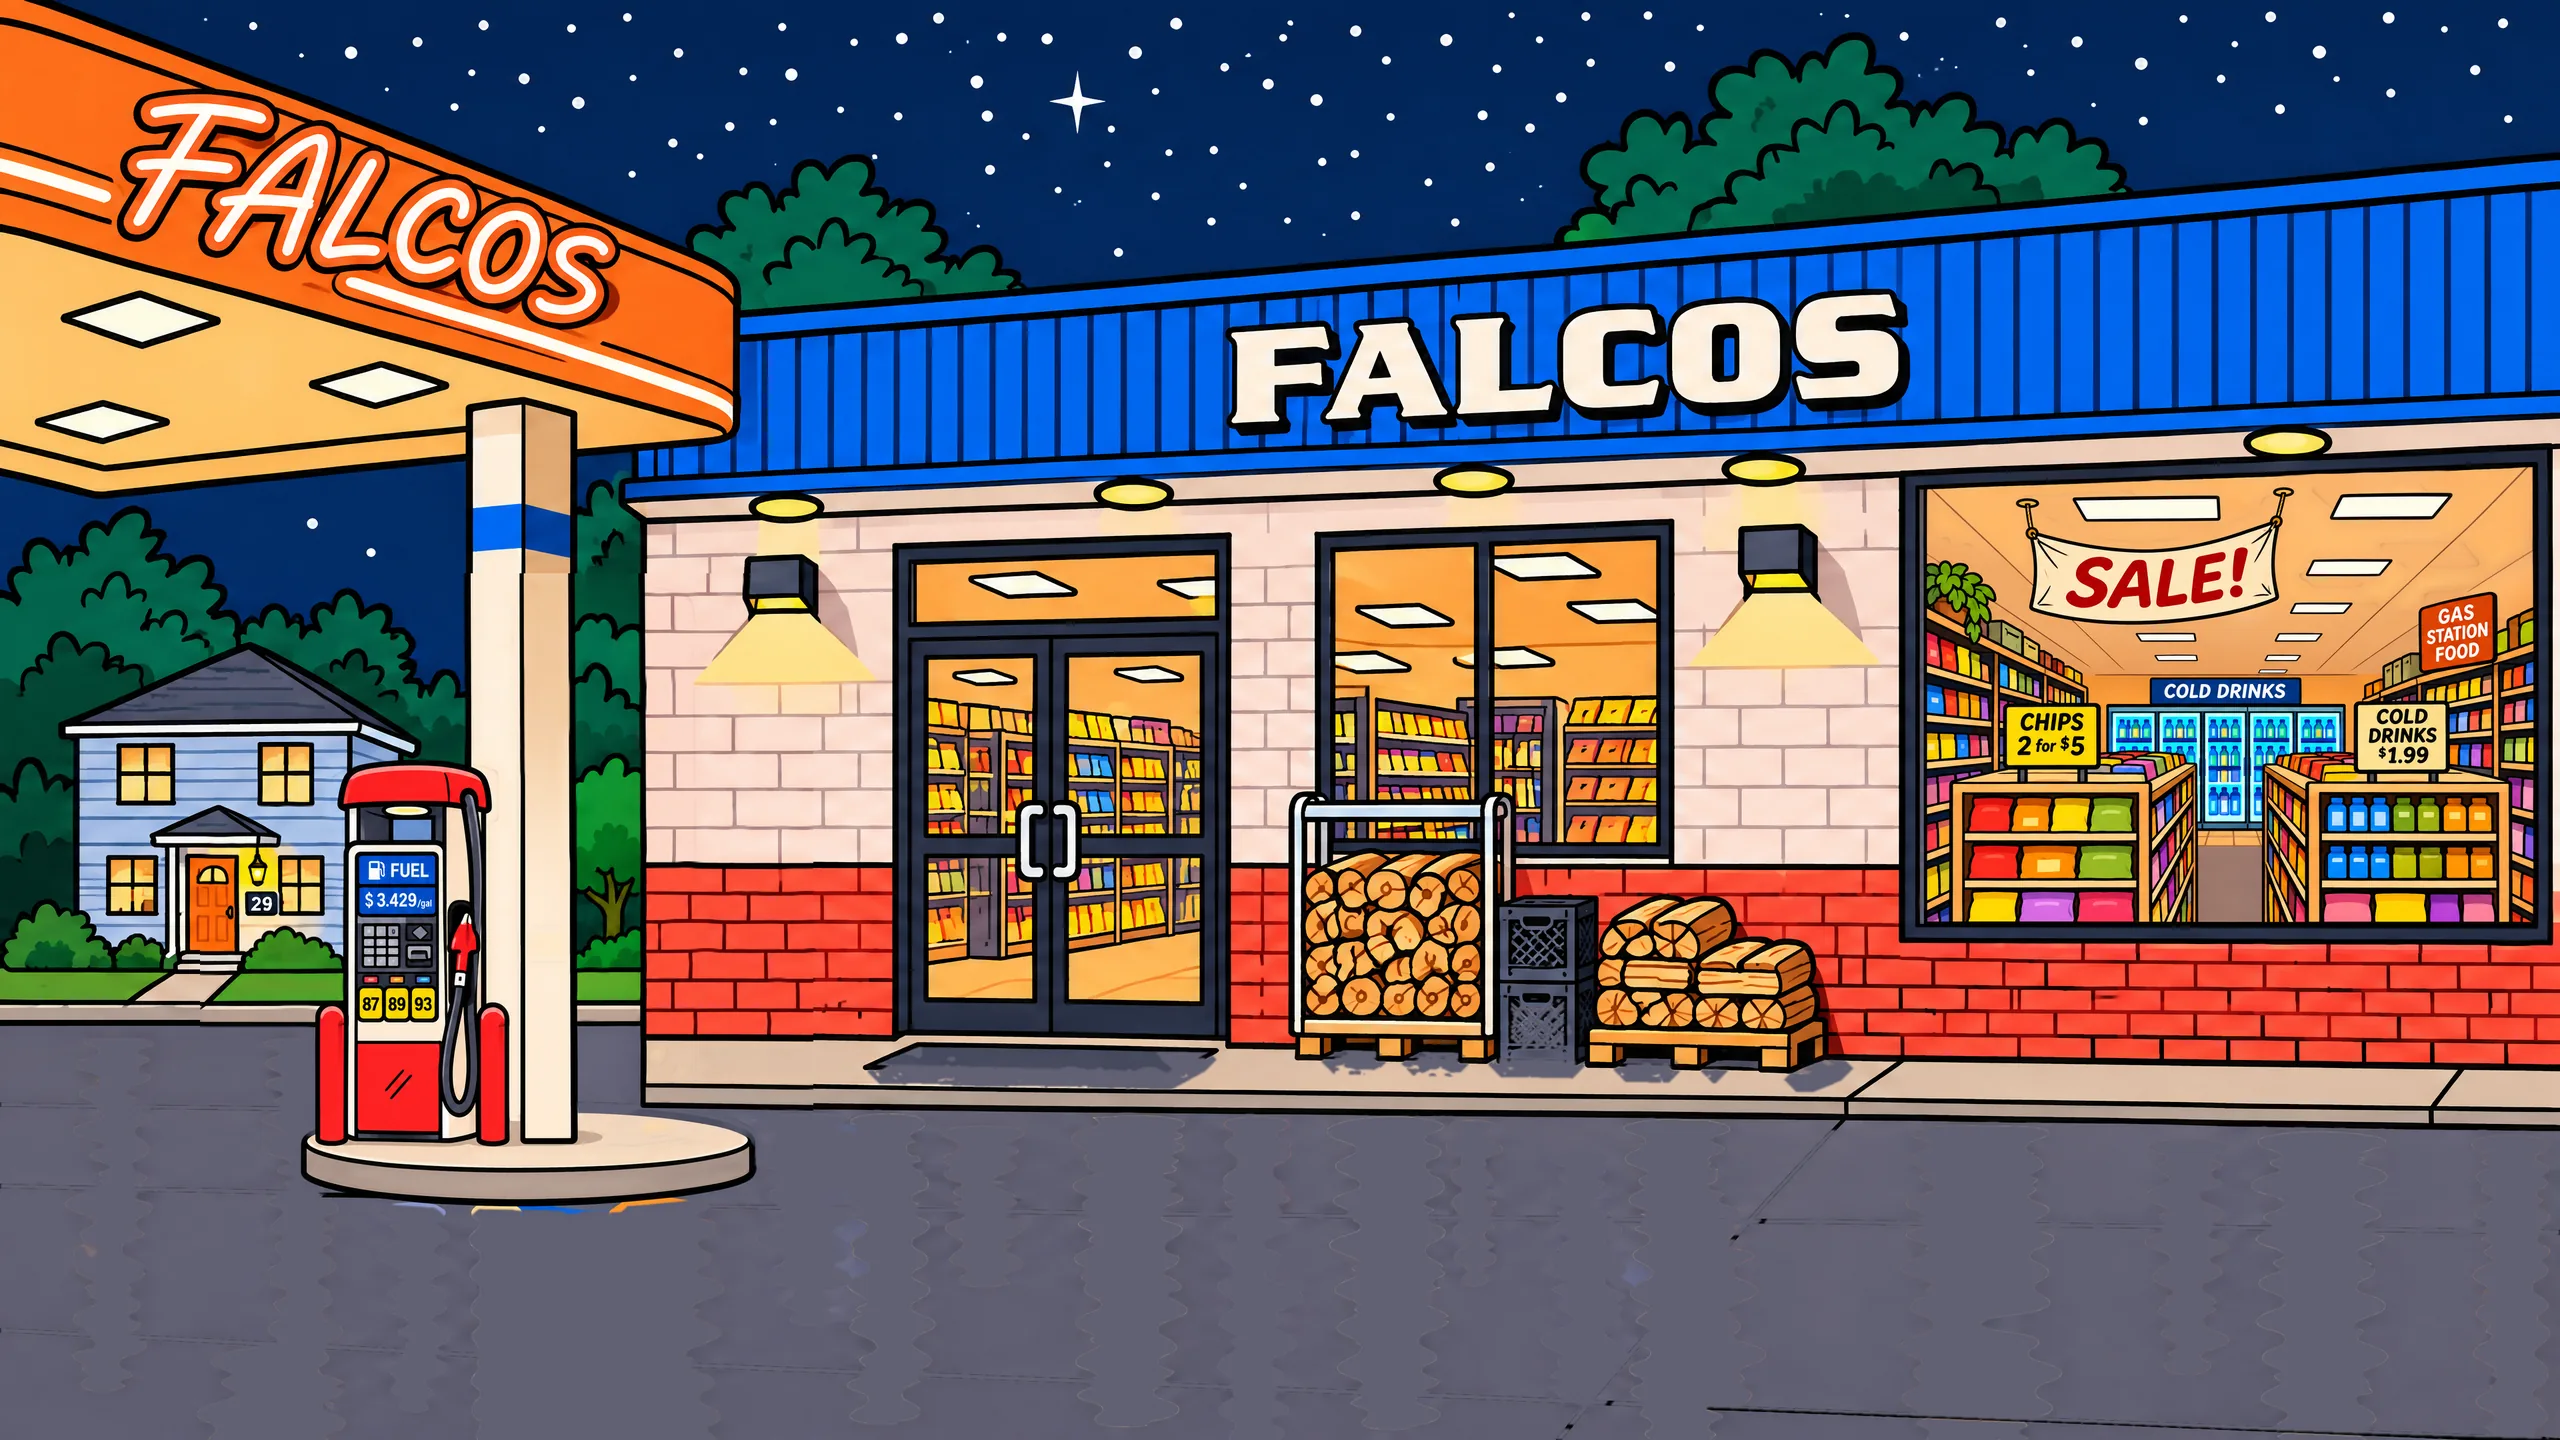
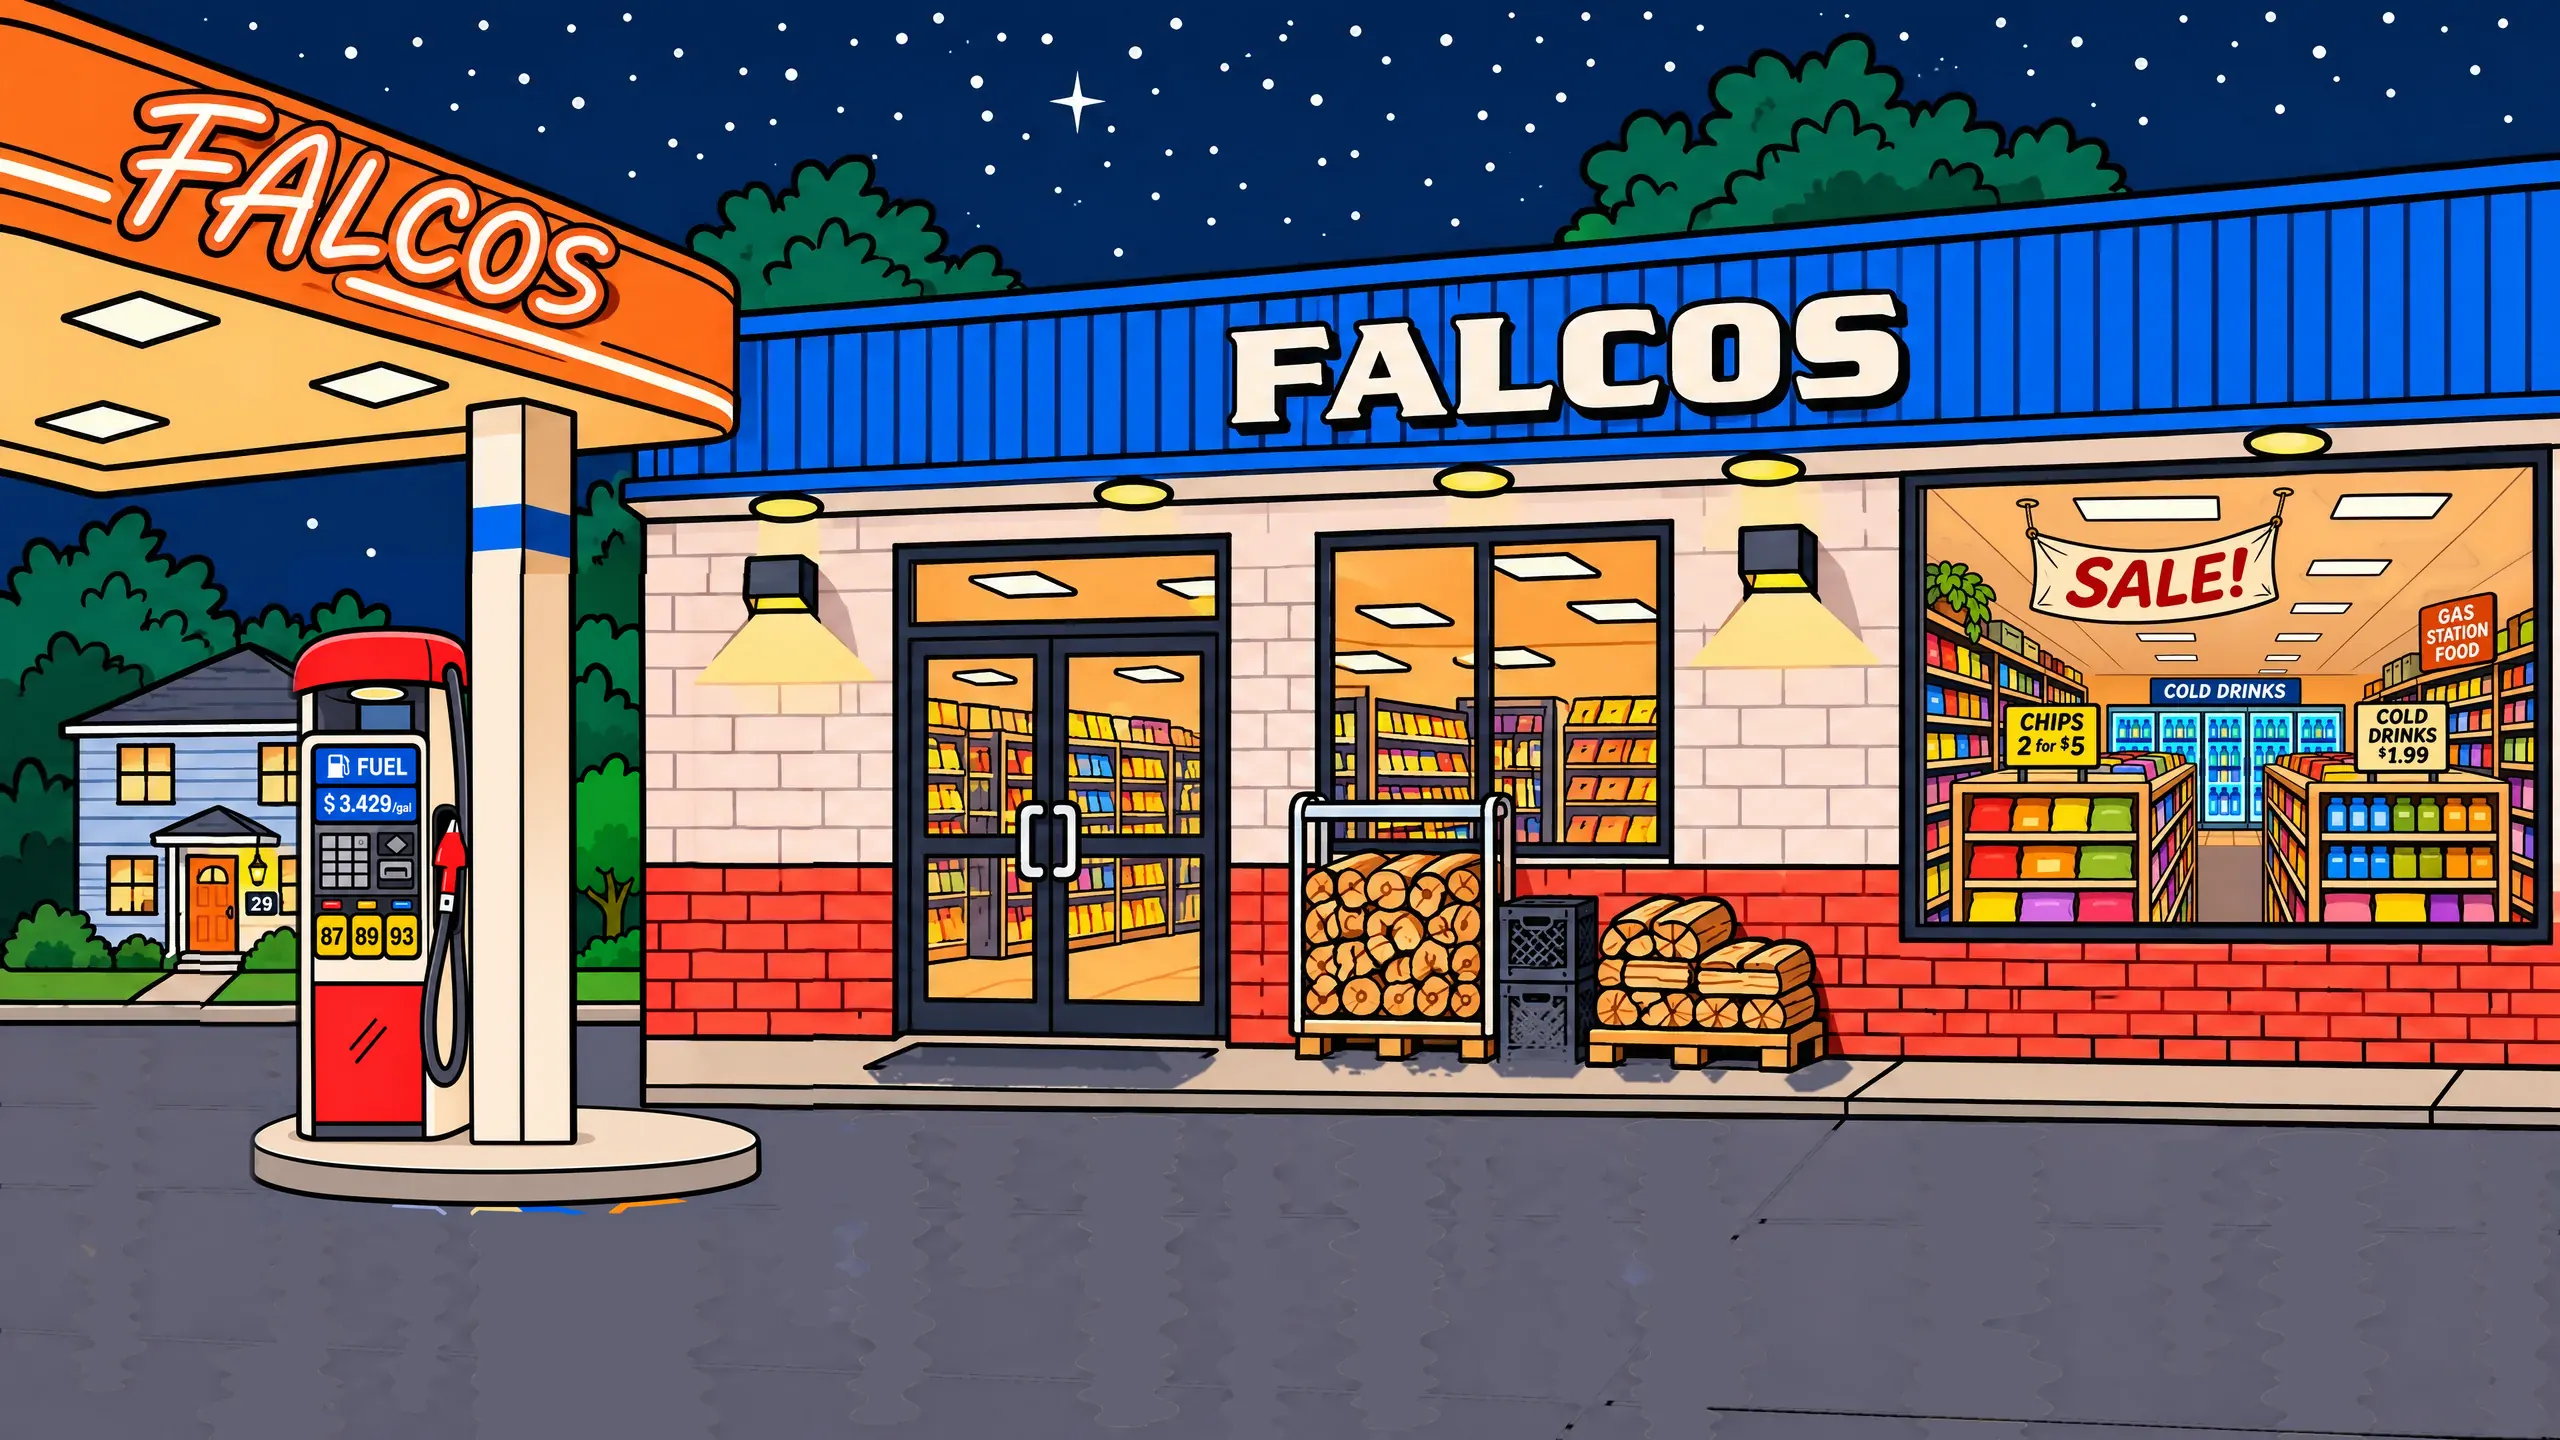
Falcos: one bigger pump, same spot and size in every scene, no poles; board canvas re-checks resting cells
- Every scene's gas pump stands where the normal scene's does, at the same size, ~45% bigger than before and
  without its red poles, each in its own theme (worn for PREMIUM, purple light for MIDNIGHT RUN, the race
  display for NITRO): tools/falcos/pump_align.py blends the edits into the plates and their phone twins.
- boardgl.js: every 250 ms each resting cell is read again in full and the board redrawn if anything it shows
  changed, so a missed animation event can no longer leave icons invisible.

Changed region(s): [[0.0938, 0.4375, 0.3125, 0.8438]]

diff --git a/frontend/boardgl.js b/frontend/boardgl.js
@@ -24,6 +24,13 @@
 
   let app = null, board = null, root = null, tried = null;
   let dirty = true, geoDirty = true, res = 1, W = 0, H = 0;
+  // A safety net (owner, 2026-11-17: "the symbols can be invisable sometimes ... it just happened to me like 5 times"):
+  // a cell is only re-read while it animates or when its class changes, so a missed animation event could leave it
+  // drawn from a stale opacity or place - a column of icons gone. Every SWEEP_MS each resting cell is read again in
+  // full, and the board redrawn only if something it shows actually changed.
+  const SWEEP_MS = 250;
+  let lastSweep = 0;
+  const seen = c => `${c.op}|${c.ico}|${c.z}|${c.smop}|${c.m ? [c.m.a, c.m.b, c.m.c, c.m.d, c.m.e, c.m.f].join() : ""}`;
   const C = [];          // C[r][y]: per cell { cell, box, cont, spr, sm, cls, m, op, z, act, reread, at }
   const R = [];          // per reel { el, x, y, w, h, clip, cont, mask }
   const smearTex = new Map();
@@ -279,6 +286,8 @@
     if (geoDirty) layout();
     if (!C.length) return;
     const now = performance.now();
+    const sweep = now - lastSweep > SWEEP_MS;
+    if (sweep) lastSweep = now;
     // the reels' clips while tiles are on the move
     for (const rr of R) {
       if (!rr) continue;
@@ -297,8 +306,9 @@
         if (!c) continue;
         const cell = c.cell;
         if (cell.className !== c.cls) { c.cls = cell.className; c.reread = true; }
-        if (c.act > 0 && now - c.at > 4000 && !cell.getAnimations({ subtree: true }).length) c.act = c.aCell = c.aIco = c.aSm = 0;
+        if (c.act > 0 && now - c.at > 4000 && !cell.getAnimations({ subtree: true }).length) { c.act = c.aCell = c.aIco = c.aSm = 0; c.reread = true; }
         if (c.act > 0 || c.reread) { read(c, c.reread); c.reread = false; dirty = true; }
+        else if (sweep) { const was = seen(c); read(c, true); if (seen(c) !== was) dirty = true; }
         // the symbol: the frame its rig is showing (symDraw), on the clip's box inside the rig
         const ico = cell.ico, rig = ico && ico.firstElementChild;
         const g = rig && rig._gclip ? SYMF.sheets.get(rig._name + "_" + rig._gclip) : null;

diff --git a/tools/falcos/pump_align.py b/tools/falcos/pump_align.py
@@ -1,0 +1,75 @@
+"""Every scene's gas pump in the same spot and at the same size (owner, 2026-11-17: "you see how all 3 gas stations are
+in diffrent spots and diffrent sizes. i like how they are all diffrently themed but make them all in the exact same spot
+and the exact same size", then "remove the red poles next to the pump" and "make the pump bigger").
+
+The normal scene's pump area was edited first (art/falcos/raw/pumpalign_lit_big.png: the poles gone, the pump ~45%
+bigger, standing where it stood), and each themed scene's pump area was restyled from THAT picture (layout kept, the
+theme's look taken from the scene's own crop): pumpalign_<zombie|midnight|nitro>_big.png. This blends each edit into
+its scene - everything the edit changed in the crop, feathered, fading out towards the crop's edges - and writes the
+game's plates (2560 wide) and their phone twins (_m, 1600 wide) at compress_assets.py's settings.
+
+    .venv/bin/python tools/falcos/pump_align.py
+
+It works on the game's own plates (frontend/assets), which carry later touches the 3840 sources in art/falcos/scene do
+not; the originals are kept beside the edits as art/falcos/work/pumpalign/before_<name>.webp, and a re-run starts from them.
+"""
+import os, shutil, sys
+import numpy as np
+from PIL import Image, ImageFilter
+from scipy import ndimage
+
+ROOT = os.path.dirname(os.path.dirname(os.path.dirname(os.path.abspath(__file__))))
+sys.path.insert(0, os.path.join(ROOT, 'tools', 'falcos'))
+from compress_assets import encode, PLATE_Q, PLATE_W_M   # noqa: E402
+
+A = os.path.join(ROOT, 'frontend', 'assets')
+RAW = os.path.join(ROOT, 'art', 'falcos', 'raw')
+W = os.path.join(ROOT, 'art', 'falcos', 'work', 'pumpalign')
+BOX = (150, 450, 1000, 1300)   # the pump's area on a 2560-wide plate (the crop the edits were made from)
+PLATES = {'lit': 'bonus_wall.webp', 'zombie': 'scene/plate_zombie.webp', 'midnight': 'scene/plate_midnight.webp',
+          'nitro': 'scene/plate_nitro.webp'}
+
+
+# only the pump's own zone is taken from the edit, so the house, the shop window and the door stay the scene's own
+# (taking the whole crop doubled their edges): a tall narrow band round the pump, the pillar and where the old pump
+# stood, widening only at ground level for the island, on the plain forecourt (crop px, left/top/right/bottom)
+UPPER = (132, 96, 548, 650)
+ISLAND = (92, 628, 618, 778)
+FEATHER = 10
+
+
+RIGHT = (548, 96, 700, 778)   # right of the pillar, where the old pumps and their poles stood: taken only where it differs
+
+
+def mask_of(edit, region):
+    w, h = region.size
+    m = Image.new('L', (w, h), 0)
+    for x0, y0, x1, y1 in (UPPER, ISLAND):
+        m.paste(255, (x0 + FEATHER, y0 + FEATHER, x1 - FEATHER, y1 - FEATHER))
+    d = np.abs(np.asarray(edit, np.float32) - np.asarray(region, np.float32)).max(axis=2) / 255 > .16
+    d = ndimage.binary_dilation(ndimage.binary_opening(d, iterations=2), iterations=10)
+    band = np.zeros_like(d)
+    band[RIGHT[1]:RIGHT[3], RIGHT[0] - FEATHER:RIGHT[2]] = True
+    r = Image.fromarray(((d & band) * 255).astype(np.uint8))
+    m = Image.fromarray(np.maximum(np.asarray(m), np.asarray(r)))
+    return m.filter(ImageFilter.GaussianBlur(FEATHER / 2))
+
+
+for name, rel in PLATES.items():
+    out = os.path.join(A, rel)
+    before = os.path.join(W, f'before_{name}.webp')
+    if not os.path.exists(before):
+        shutil.copyfile(out, before)
+    plate = Image.open(before).convert('RGB')
+    assert plate.width == 2560, (rel, plate.size)
+    region = plate.crop(BOX)
+    src = 'pumpalign_lit_big.png' if name == 'lit' else f'pumpalign_{name}_big.png'
+    edit = Image.open(os.path.join(RAW, src)).convert('RGB').resize(region.size, Image.LANCZOS)
+    m = mask_of(edit, region)
+    region.paste(edit, (0, 0), m)
+    plate.paste(region, BOX[:2])
+    encode(plate, out, PLATE_Q, 100)
+    small = plate.resize((PLATE_W_M, round(plate.height * PLATE_W_M / plate.width)), Image.LANCZOS)
+    encode(small, out[:-5] + '_m.webp', PLATE_Q, 100)
+    m.save(os.path.join(W, f'mask_{name}.png'))
+    print(f'{name}: pump blended -> {rel} (+ _m)')
